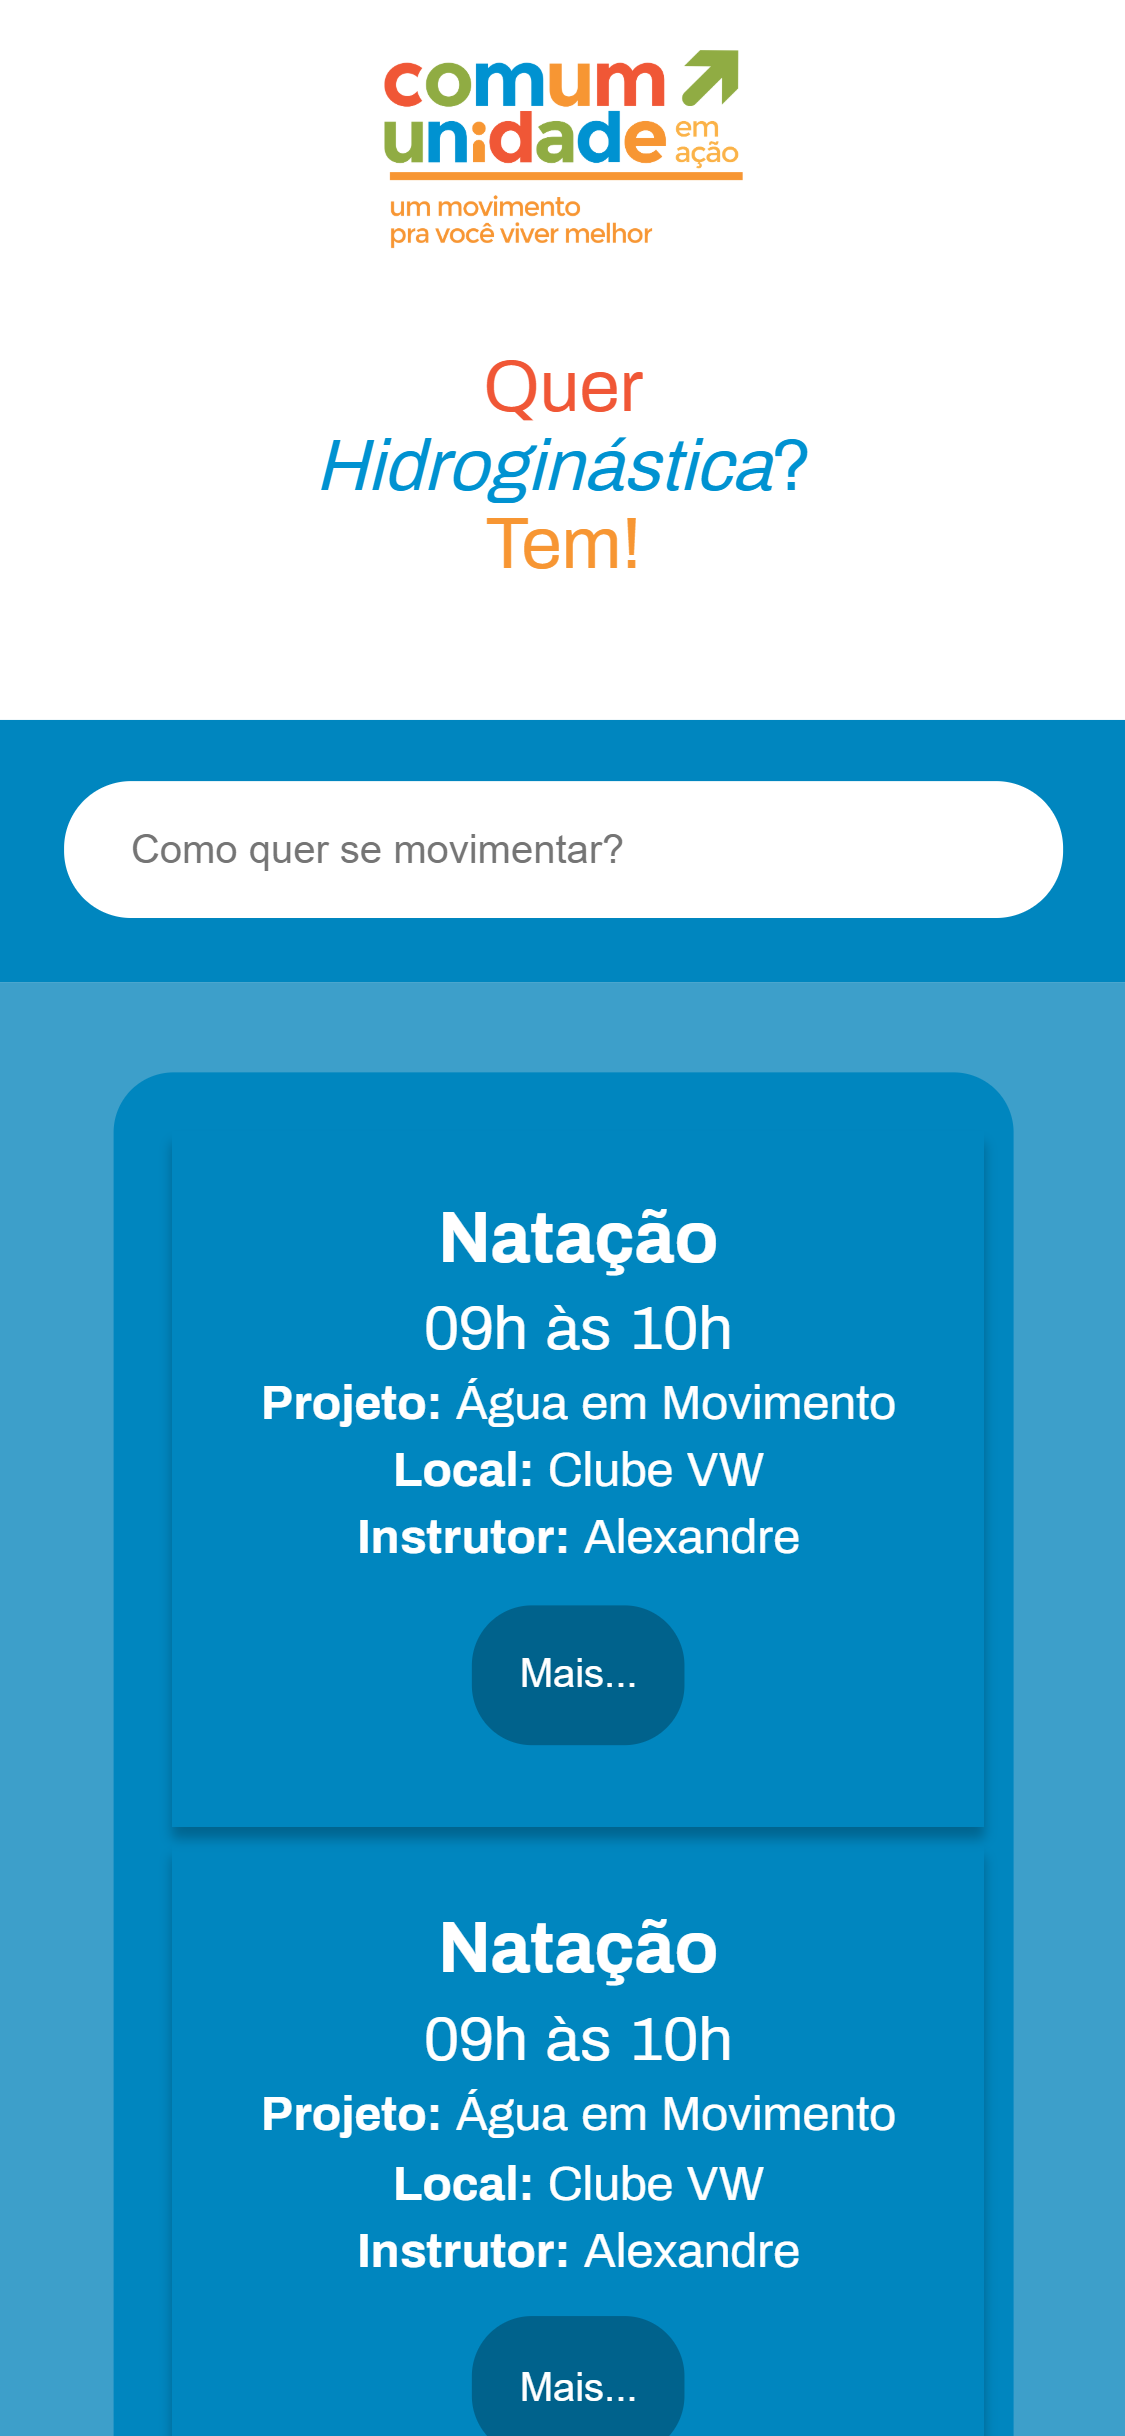
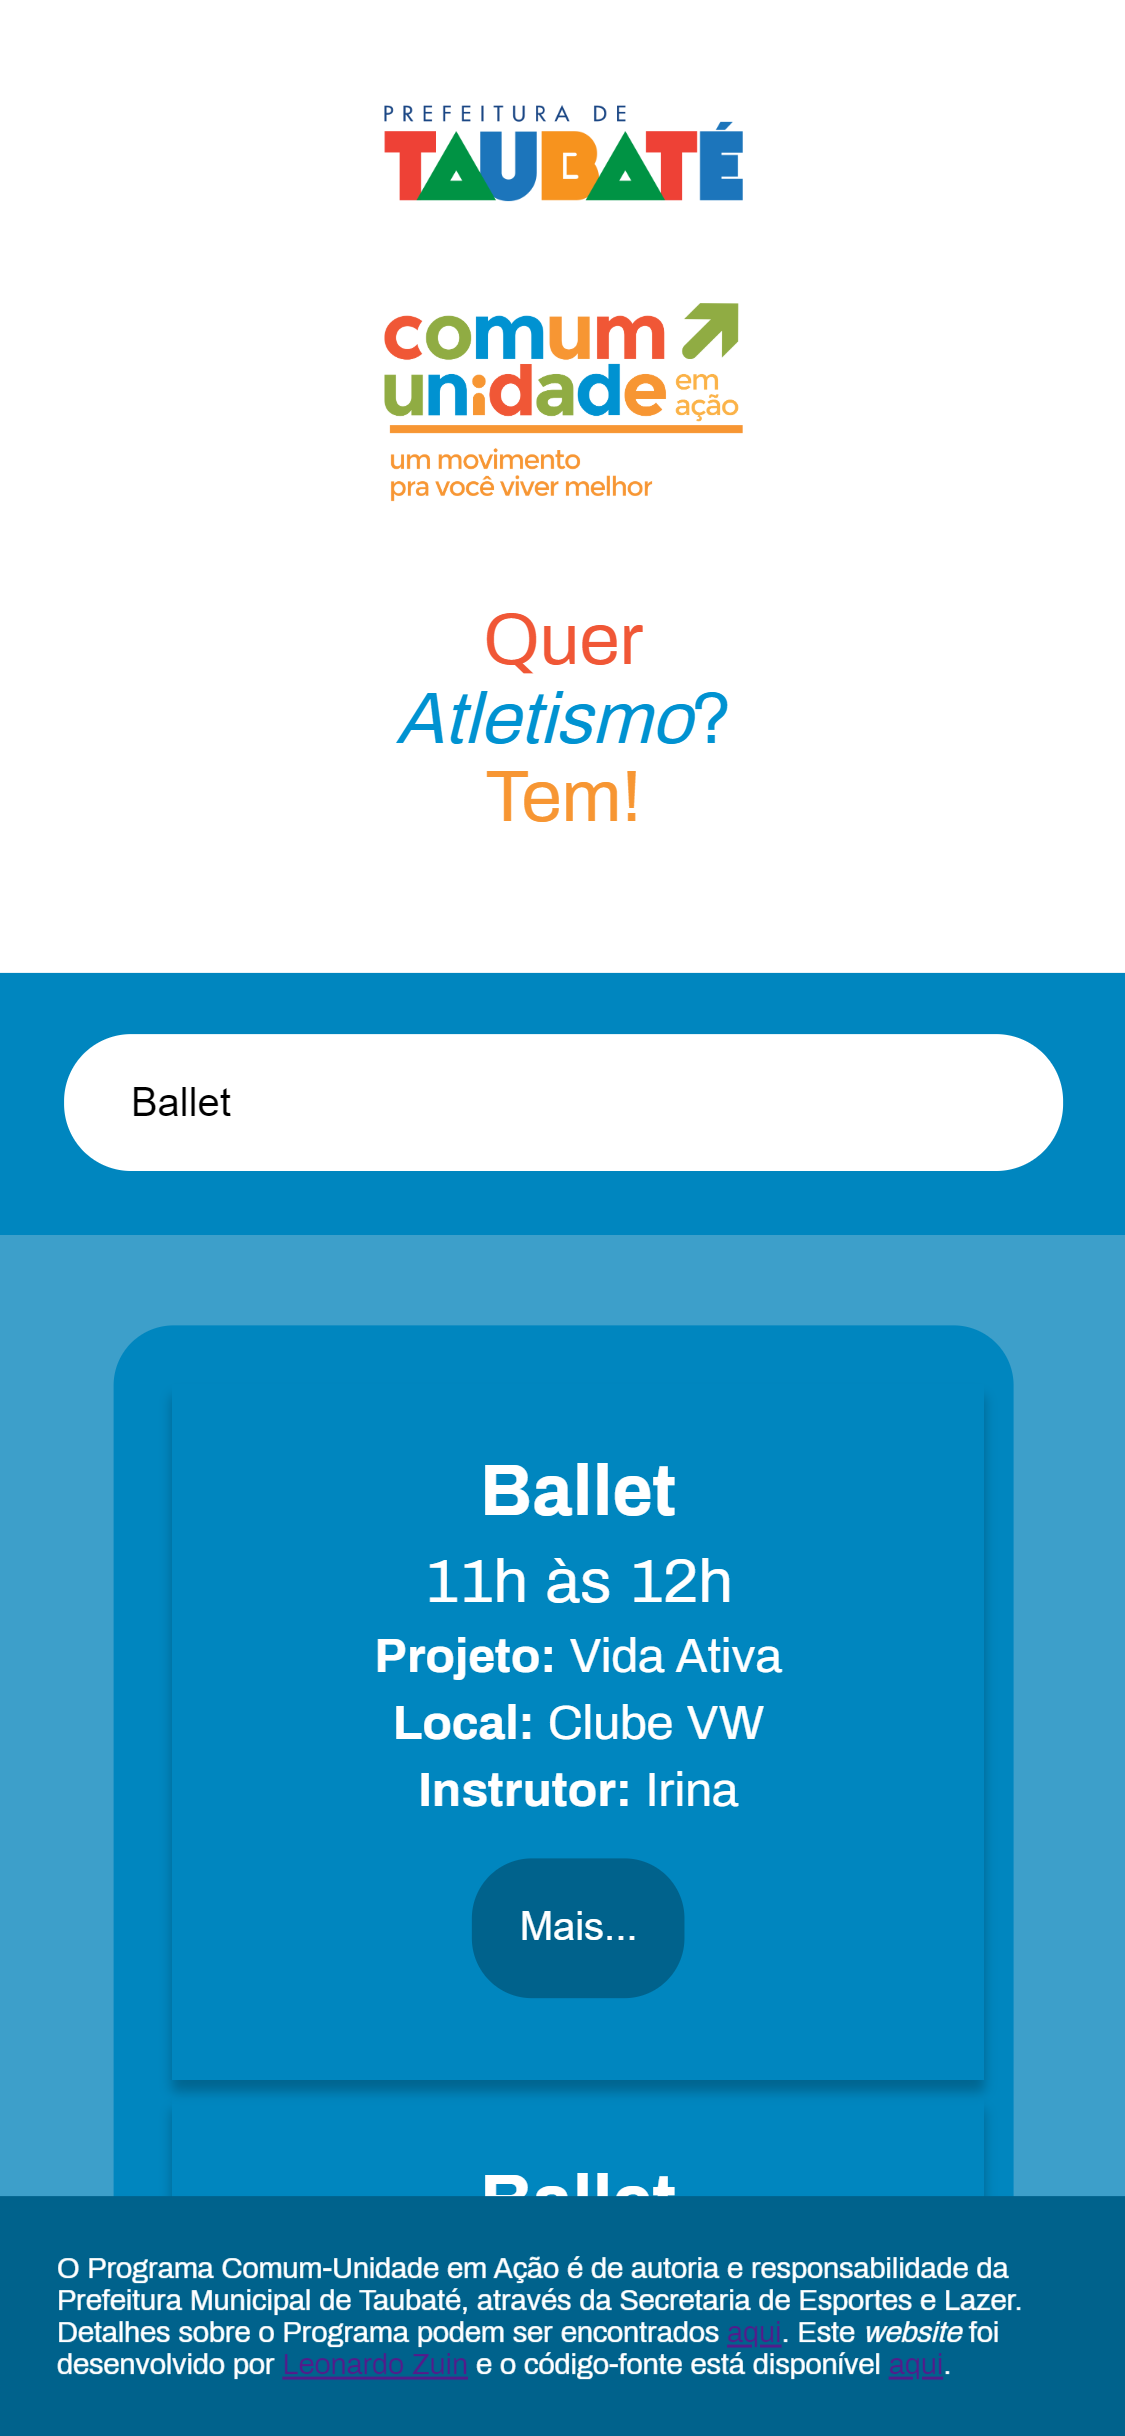
Ajuste no footer e novos screenshots

diff --git a/src/components/Footer/Footer.js b/src/components/Footer/Footer.js
@@ -12,8 +12,7 @@ export default props => {
                         e responsabilidade da Prefeitura Municipal de Taubaté, através da Secretaria de 
                         Esportes e Lazer. Detalhes sobre o Programa podem ser 
                         encontrados <a href="http://www.taubate.sp.gov.br/secretarias/seel/sistema/" 
-                        target="_blank" rel="noopener noreferrer">aqui</a>.</p>
-                    <p className="text footer-text">Este <i>website</i> foi desenvolvido 
+                        target="_blank" rel="noopener noreferrer">aqui</a>. Este <i>website</i> foi desenvolvido 
                     por <a href="https://linkedin.com/in/lzuin" target="_blank" rel="noopener noreferrer">Leonardo Zuin</a> e o 
                     código-fonte está disponível <a href="https://github.com/zuinl/website_pcua_React" 
                     target="_blank" rel="noopener noreferrer">aqui</a>.</p>

diff --git a/src/components/Footer/style.css b/src/components/Footer/style.css
@@ -1,11 +1,11 @@
 .footer {
-    position: relative;
+    position: fixed;
     width: 100%;
-    bottom: 0em;
-    padding: 15px;
+    bottom: 0px;
+    padding: 0px;
     background: #00628C;
 }
 
 .footer-text {
-    font-size: 0.7em;
+    font-size: 0.6em;
 }

diff --git a/src/index.css b/src/index.css
@@ -1,6 +1,6 @@
 body {
   margin: 0;
-  background: #FFFFFF;
+  background: #3D9FCA;
   font-family: -apple-system, BlinkMacSystemFont, 'Segoe UI', 'Roboto', 'Oxygen',
     'Ubuntu', 'Cantarell', 'Fira Sans', 'Droid Sans', 'Helvetica Neue',
     sans-serif;

diff --git a/src/components/Result/style.css b/src/components/Result/style.css
@@ -3,6 +3,7 @@
     padding: 30px;
     padding-left: 10%;
     padding-right: 10%;
+    margin-bottom: 3em;
     background: #3D9FCA;
 }
 
